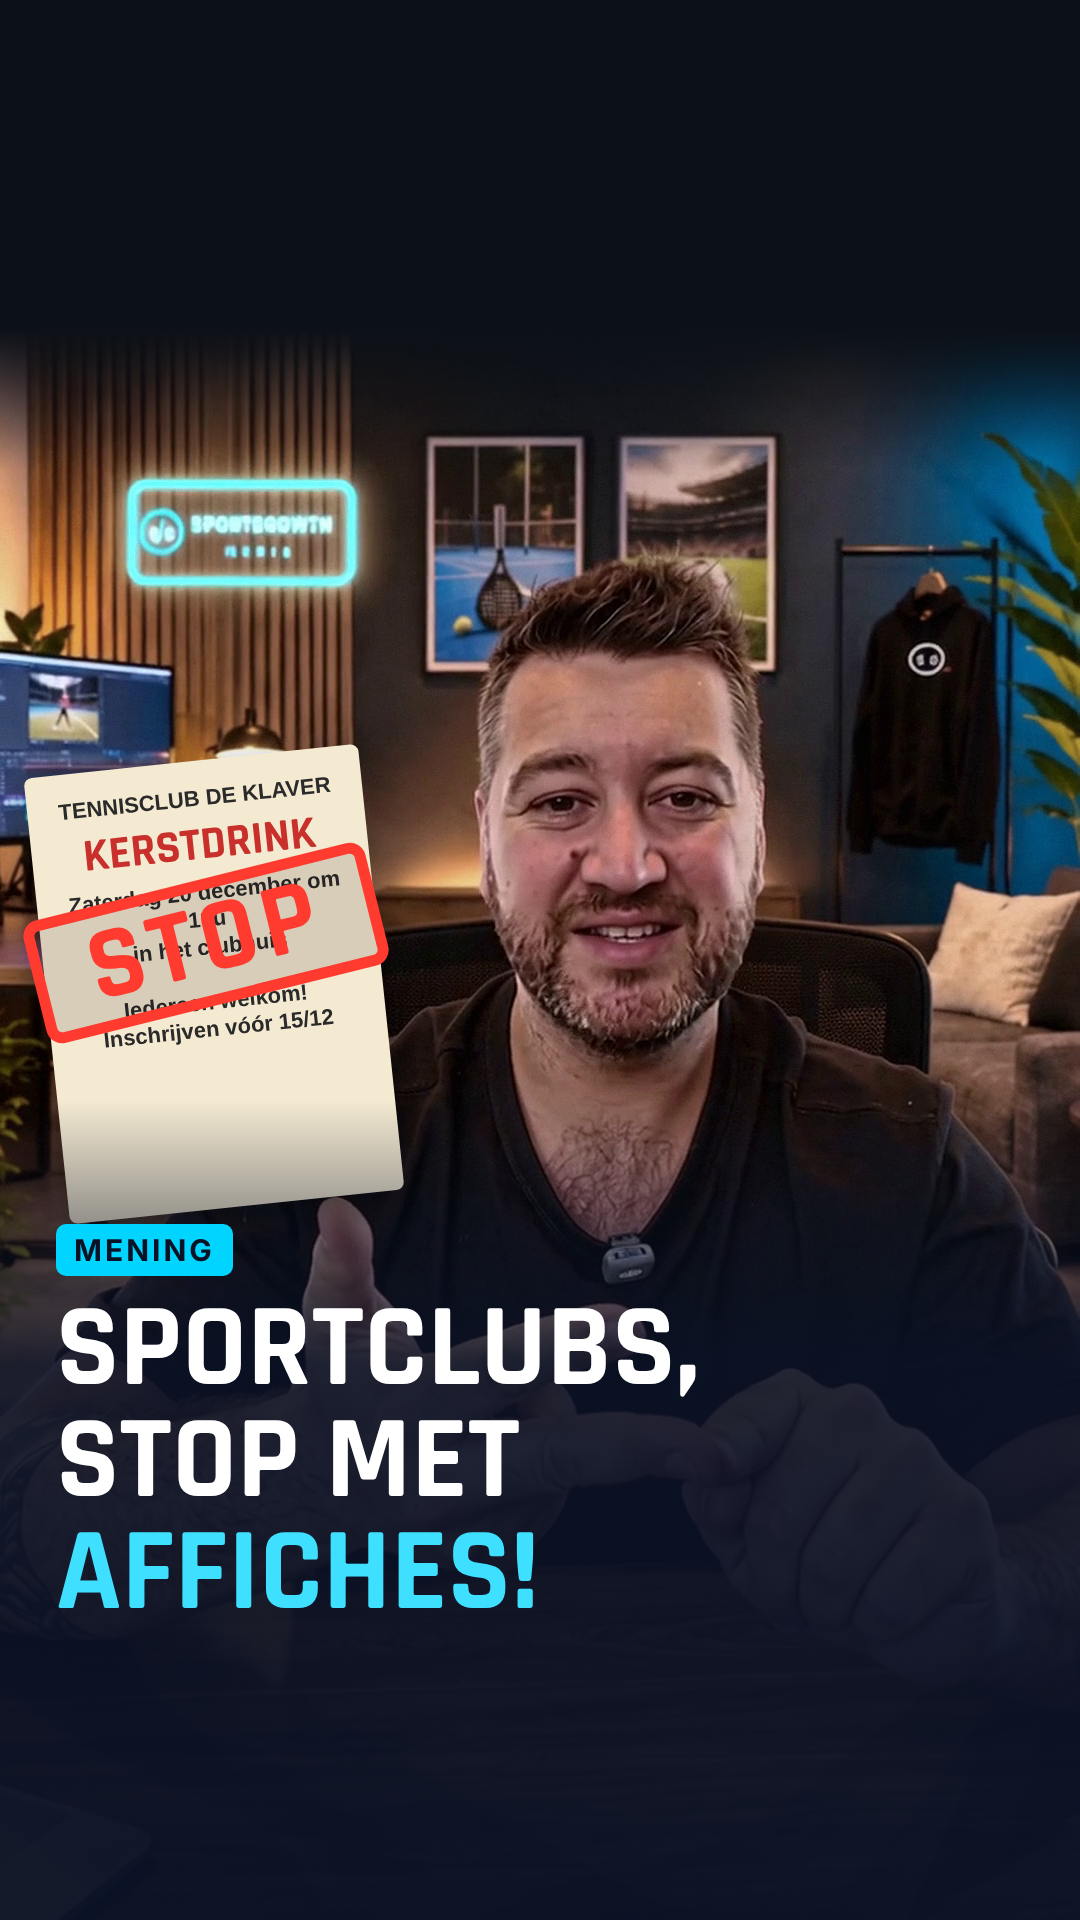
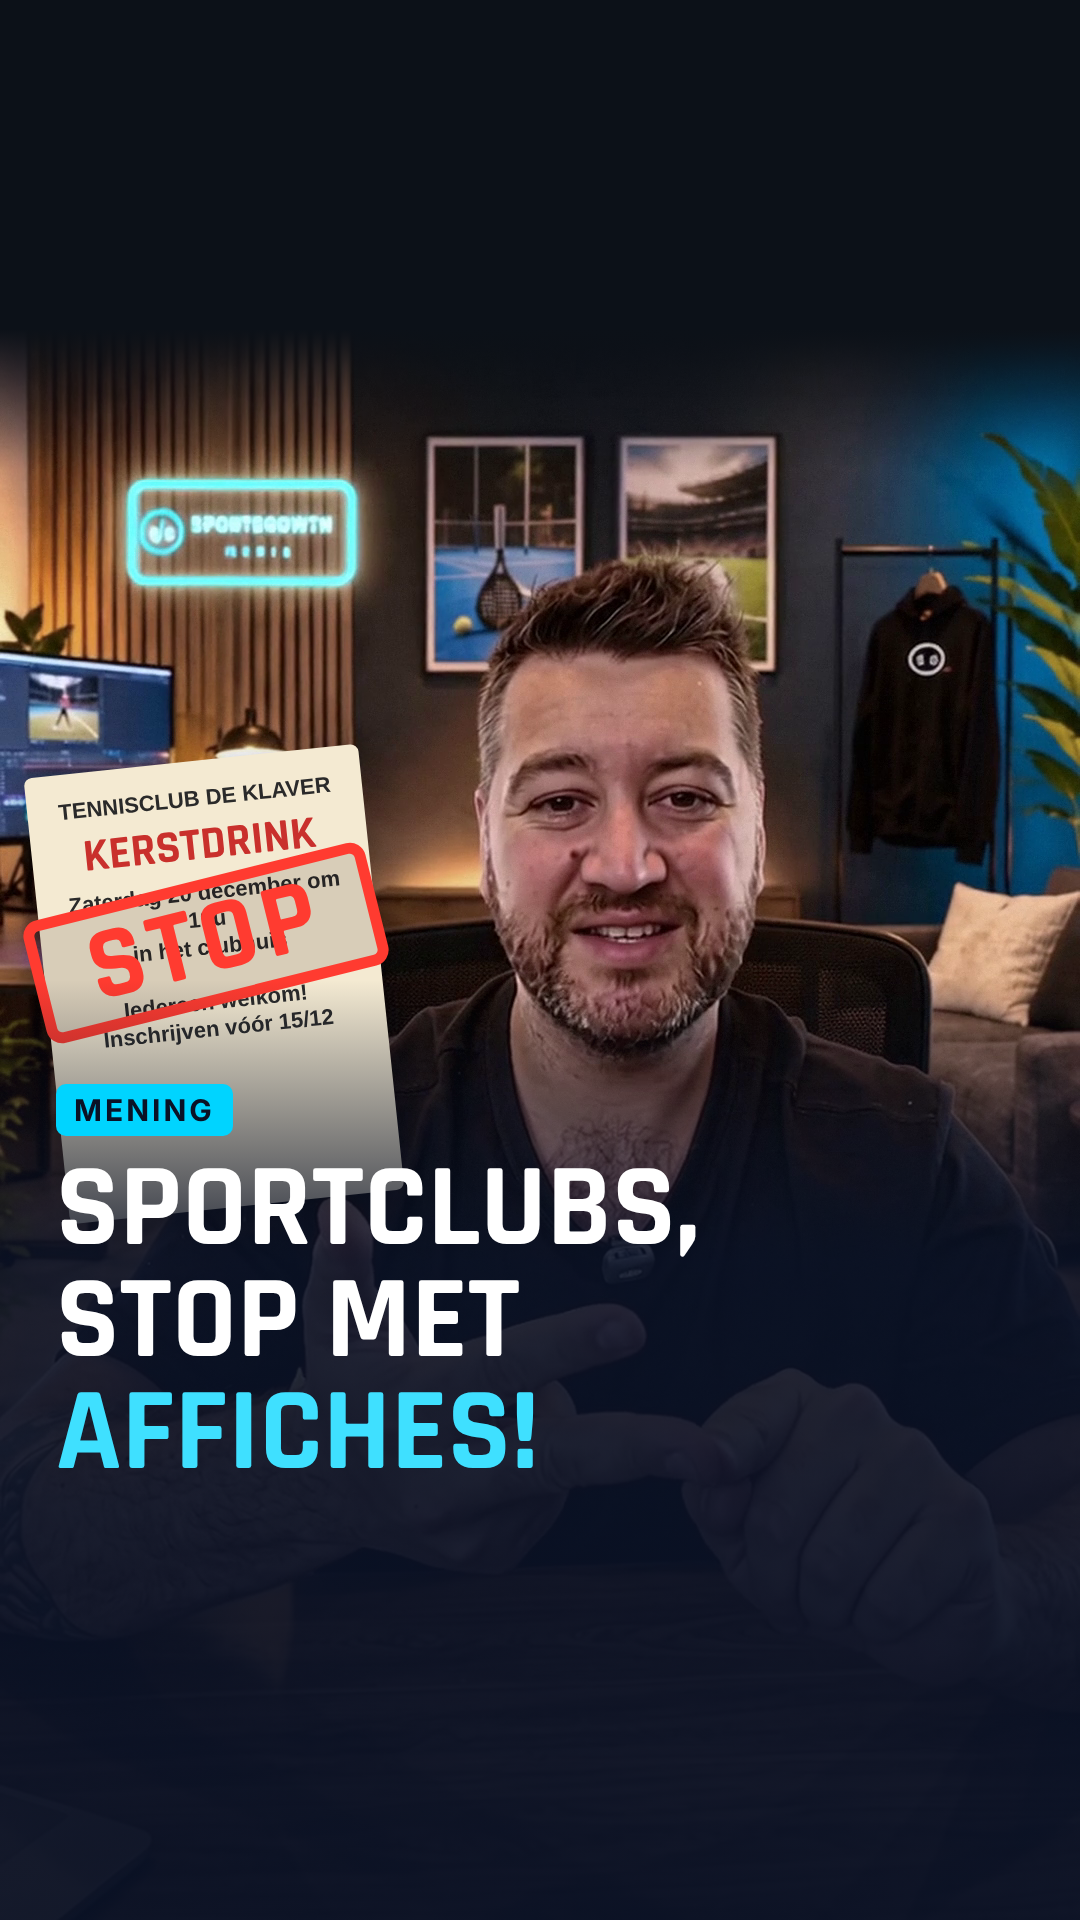
Covers: titel hoger, ruimte voor weergaven
Claude-Session: https://claude.ai/code/session_01QkSWZzWLTduRQtPp2zathG

diff --git a/instagram/covers-raster/cover.js b/instagram/covers-raster/cover.js
@@ -15,8 +15,8 @@ const C = [
     const html = `<style>@font-face{font-family:R;src:url(${f64(F+'/rajdhani-700.woff2')})}@font-face{font-family:I;src:url(${f64(F+'/inter-var.woff2')})}
     body{margin:0}#c{position:relative;width:1080px;height:1920px;overflow:hidden;background:url(${img('bg-'+n+'.png')}) center/cover}
     .tf{position:absolute;left:0;right:0;top:0;height:470px;background:linear-gradient(#0c1118 0,#0c1118 70%,rgba(12,17,24,0))}
-    .bf{position:absolute;left:0;right:0;top:1100px;bottom:0;background:linear-gradient(rgba(10,18,38,0),rgba(10,18,38,.88) 32%,rgba(10,18,38,.95))}
-    .t{position:absolute;left:56px;right:56px;bottom:290px}
+    .bf{position:absolute;left:0;right:0;top:980px;bottom:0;background:linear-gradient(rgba(10,18,38,0),rgba(10,18,38,.88) 30%,rgba(10,18,38,.95))}
+    .t{position:absolute;left:56px;right:56px;bottom:430px}
     .tag{display:inline-block;font:700 30px I;letter-spacing:3px;text-transform:uppercase;background:#00d4ff;color:#0a1226;padding:8px 18px;border-radius:10px;margin-bottom:18px}
     h1{margin:0;font:700 118px/0.95 R;text-transform:uppercase;color:#fff}h1 span{color:#3fe0ff;display:block}</style>
     <div id="c">${topfade?'<div class="tf"></div>':''}<div class="bf"></div><div class="t"><div class="tag">${tag}</div><h1>${lines.join('<br>')}<span>${cy}</span></h1></div></div>`;

diff --git a/instagram/covers-raster/README.md b/instagram/covers-raster/README.md
@@ -1,4 +1,5 @@
 # Raster-veilige covers (21/11)
 Instagram toont reels in het profielraster als 3:4 (boven en onder ±240 px weg). De titel staat daarom onderaan in de zichtbare zone, in dezelfde stijl als de carrousels (label + titel).
+Titel eindigt ±170 px boven de onderrand van de 3:4-zone: daar staat het aantal weergaven.
 Regel: elke studioreel krijgt voortaan zo'n cover (node cover.js). Achtergrond: rustig beeld van Jari, gezicht vrij.
 Aanpassen op een geposte reel: reel openen → ⋯ → Bewerken → Cover bewerken → Uit galerij.
